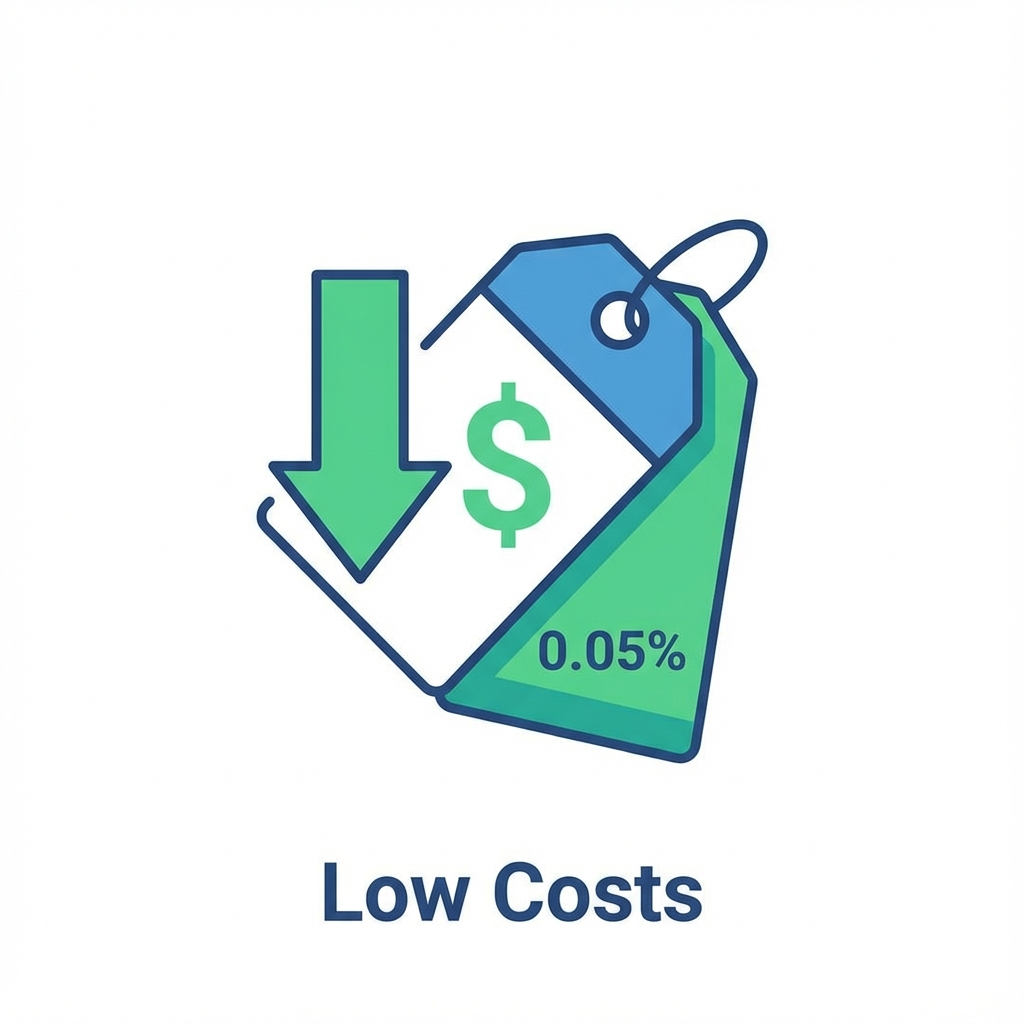
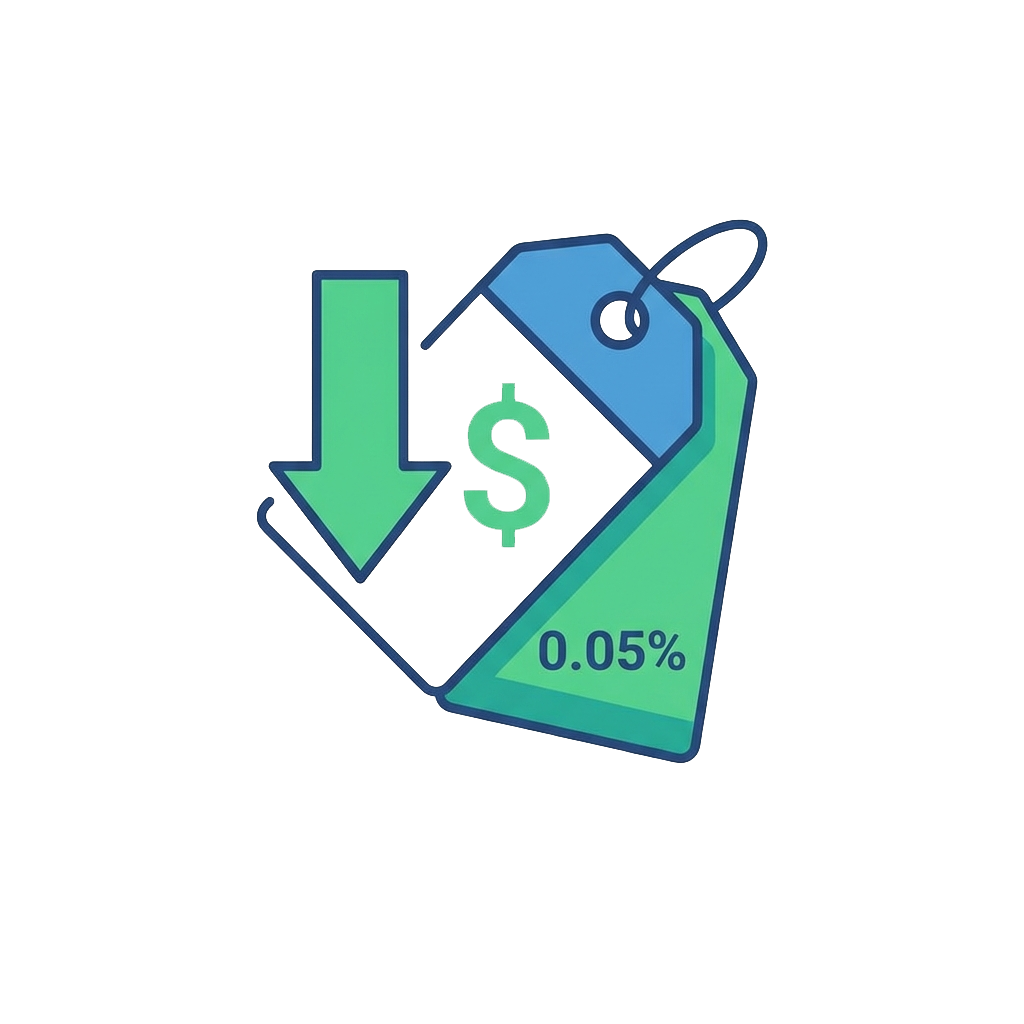
chore: cleanup more illustrations

Changed region(s): [[0.3125, 0.8438, 0.6875, 0.9062], [0.4375, 0.375, 0.5312, 0.5312]]

diff --git a/lib/src/features/education/presentation/learn_screen.dart b/lib/src/features/education/presentation/learn_screen.dart
@@ -258,7 +258,7 @@ class LearnScreen extends StatelessWidget {
           LessonPage(
             title: l10n.instantDiversification,
             description: l10n.instantDiversificationDesc,
-            imagePath: 'assets/images/education/diversification.png',
+            imagePath: 'assets/images/education/ms_diversification.png',
           ),
           LessonPage(
             title: l10n.lowCost,
@@ -283,12 +283,12 @@ class LearnScreen extends StatelessWidget {
           LessonPage(
             title: l10n.whatIsDCA,
             description: l10n.whatIsDCADesc,
-            imagePath: 'assets/images/education/dca_calendar.svg',
+            imagePath: 'assets/images/education/dca_calendar.png',
           ),
           LessonPage(
             title: l10n.smoothingTheRide,
             description: l10n.smoothingTheRideDesc,
-            imagePath: 'assets/images/education/dca_chart.svg',
+            imagePath: 'assets/images/education/dca_smoothing.png',
           ),
           LessonPage(
             title: l10n.dcaHistoryCrashTitle,
